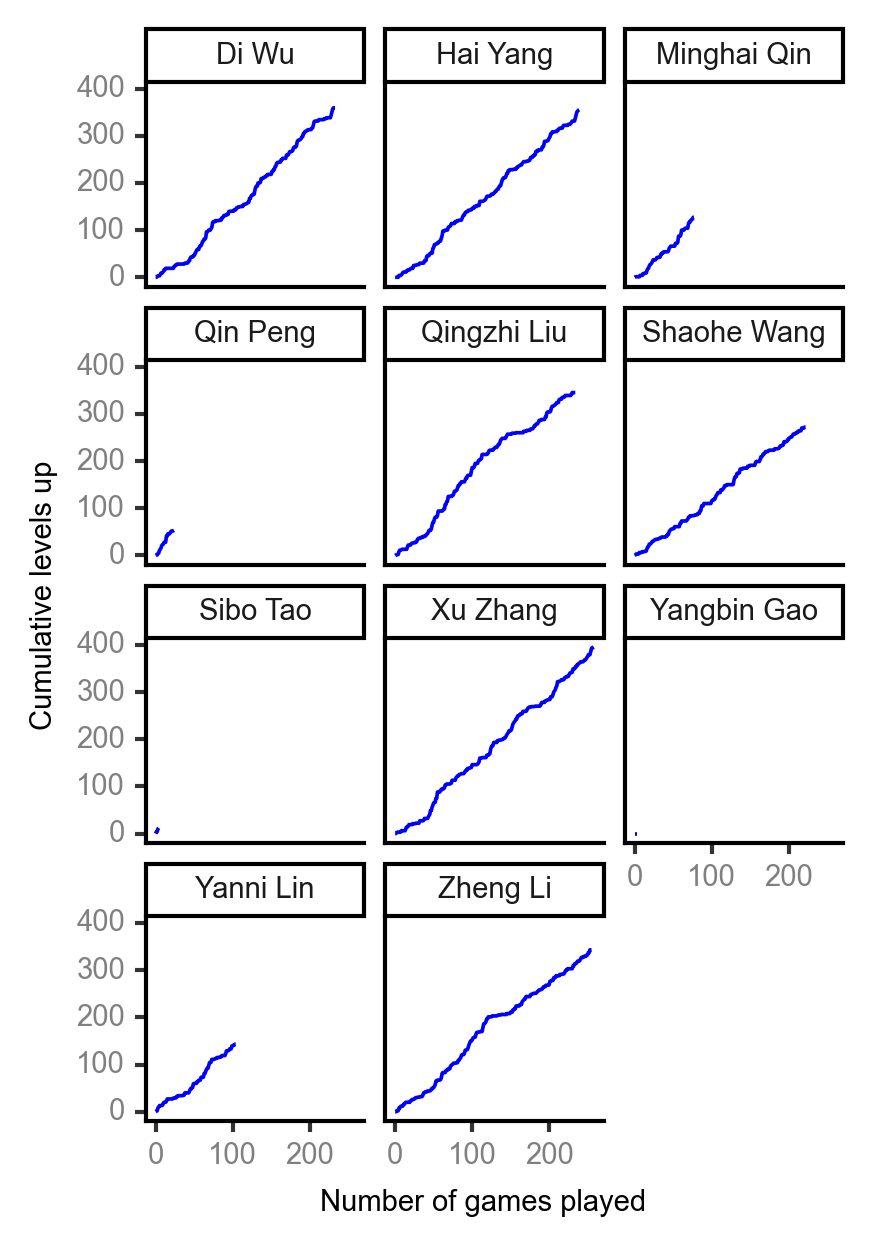
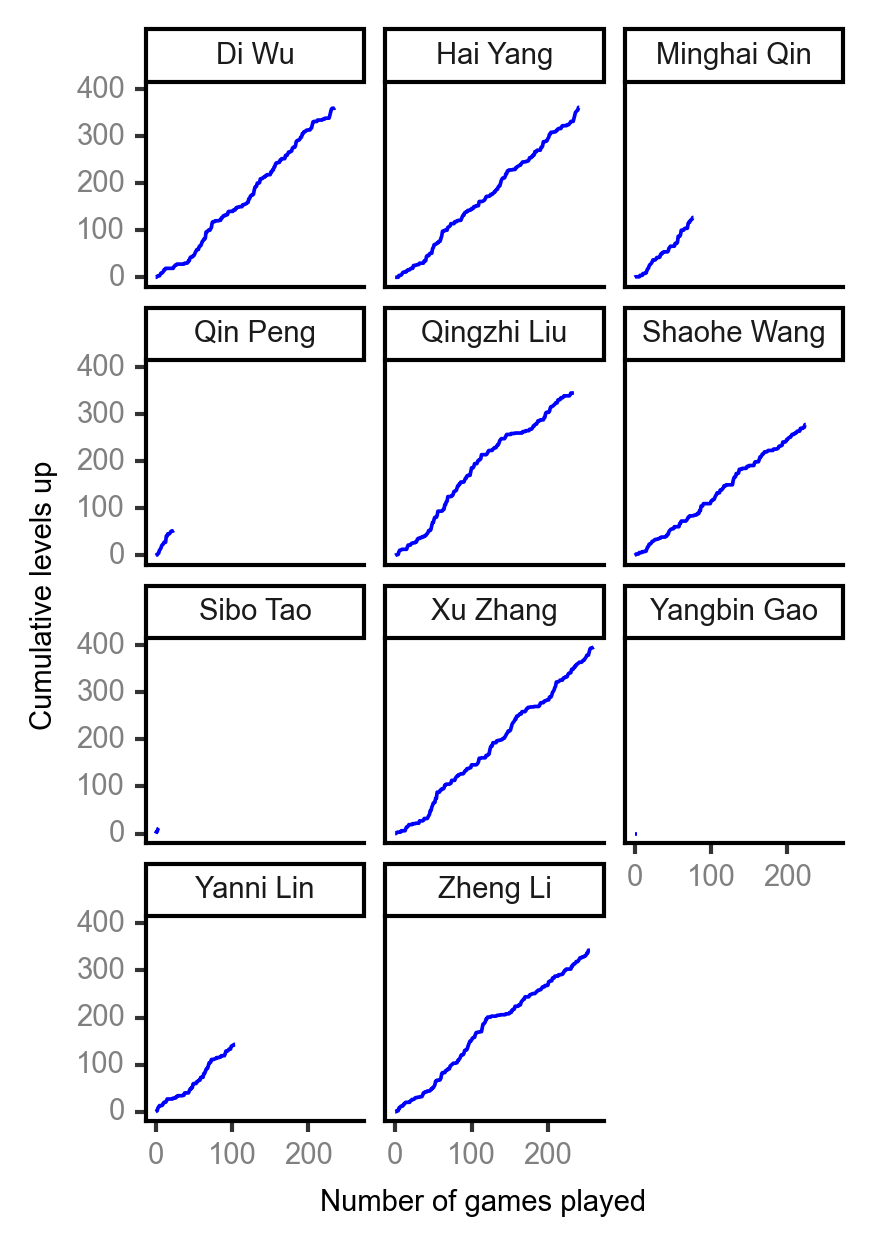
update player stats

diff --git a/player_stats.md b/player_stats.md
@@ -14,12 +14,12 @@ date: 2021-05-08
 
 | <br><br><br>Rank | <br><br><br>Player | <br> Lifetime <br> levels <br> up | <br><br> Winning <br> rate | <br> Average <br> levels <br> up | <br> Total <br> games <br> played | Games <br> played <br> as <br> MVP | Games <br> played <br> as <br> dealer | N_games <br> short <br> staffed <br> as dealer | Winning <br> rate <br> as <br> dealer |
 |:---:|:---:|:---:|:---:|:---:|:---:|:---:|:---:|:---:|:---:|
-| 1 | Xu <br> Zhang | 395 | 54.8% | 2.78 | 259 | 19 | 49 | 2 | 53.1% |
-| 2 | Hai <br> Yang | 361 | 51.7% | 2.91 | 240 | 22 | 42 | 1 | 52.4% |
-| 3 | Di <br> Wu | 359 | 48.3% | 3.18 | 234 | 26 | 40 | 0 | 42.5% |
+| 1 | Xu <br> Zhang | 396 | 54.8% | 2.77 | 261 | 19 | 49 | 2 | 53.1% |
+| 2 | Di <br> Wu | 364 | 48.7% | 3.17 | 236 | 27 | 41 | 0 | 43.9% |
+| 3 | Hai <br> Yang | 361 | 51.2% | 2.91 | 242 | 22 | 43 | 1 | 51.2% |
 | 4 | Qingzhi <br> Liu | 345 | 49.8% | 2.95 | 235 | 11 | 41 | 4 | 46.3% |
 | 5 | Zheng <br> Li | 343 | 52.7% | 2.54 | 256 | 11 | 40 | 1 | 57.5% |
-| 6 | Shaohe <br> Wang | 278 | 44.8% | 2.78 | 223 | 11 | 35 | 2 | 42.9% |
+| 6 | Shaohe <br> Wang | 282 | 44.9% | 2.79 | 225 | 11 | 35 | 2 | 42.9% |
 | 7 | Yanni <br> Lin | 144 | 47.6% | 2.88 | 105 | 10 | 11 | 2 | 36.4% |
 | 8 | Minghai <br> Qin | 127 | 52.6% | 3.10 | 78 | 1 | 11 | 1 | 72.7% |
 | 9 | Qin <br> Peng | 54 | 72.0% | 3.00 | 25 | 3 | 3 | 0 | 66.7% |
